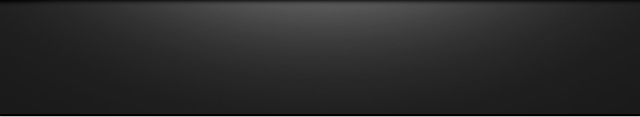
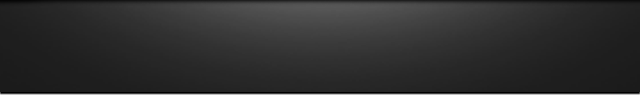
Assets added, gray lightened

Changed region(s): [[0.0, 0.9375, 1.0, 1.0]]

diff --git a/iOS/classes/DSViewController.m b/iOS/classes/DSViewController.m
@@ -18,6 +18,7 @@
 
 - (void)viewDidLoad {
     [super viewDidLoad];
+    [self.navigationItem setTitleView:[[UIImageView alloc] initWithImage:[UIImage imageNamed:@"nav-logo"]]];
 	//Set nav bar style and nav item title
 	self.navigationItem.title = @"Discos";
 	self.navigationController.navigationBar.barStyle = UIBarStyleBlack;
@@ -46,31 +47,31 @@
 	if (indexPath.row == 0) {
 		cell.textLabel.text = @"Will Newton";
 		cell.detailTextLabel.text = @"Moombahton, Dutch";
-		cell.listenerCount = @"123";
+		cell.listenerCount = @"42";
 	}
 	
 	else if (indexPath.row == 1) {
 		cell.textLabel.text = @"Knife Party";
-		cell.detailTextLabel.text = @"EDM";
-		cell.listenerCount = @"122";
+		cell.detailTextLabel.text = @"Dubstep, Electro";
+		cell.listenerCount = @"901";
 	}
 	
 	else if (indexPath.row == 2) {
 		cell.textLabel.text = @"Deadmau5";
 		cell.detailTextLabel.text = @"House";
-		cell.listenerCount = @"122";
+		cell.listenerCount = @"7821";
 	}
 	
 	else if (indexPath.row == 3) {
 		cell.textLabel.text = @"The Glitch Mob";
-		cell.detailTextLabel.text = @"Glitch";
-		cell.listenerCount = @"9999999";
+		cell.detailTextLabel.text = @"Glitch Hop";
+		cell.listenerCount = @"431";
 	}
 	
 	else if (indexPath.row == 4) {
 		cell.textLabel.text = @"Dilon Francis";
-		cell.detailTextLabel.text = @"Whatever he plays";
-		cell.listenerCount = @"1234";
+		cell.detailTextLabel.text = @"Moombahton";
+		cell.listenerCount = @"23";
 	}
 	return cell;
 }
